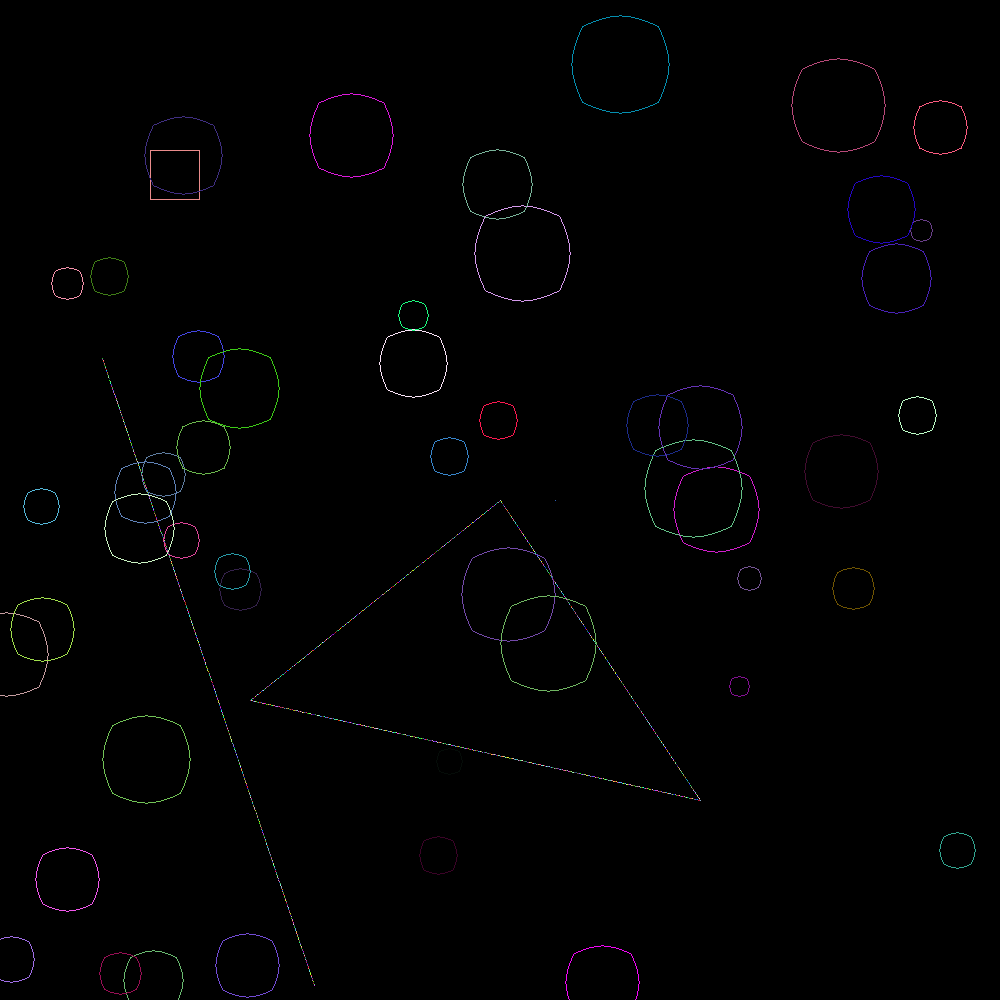
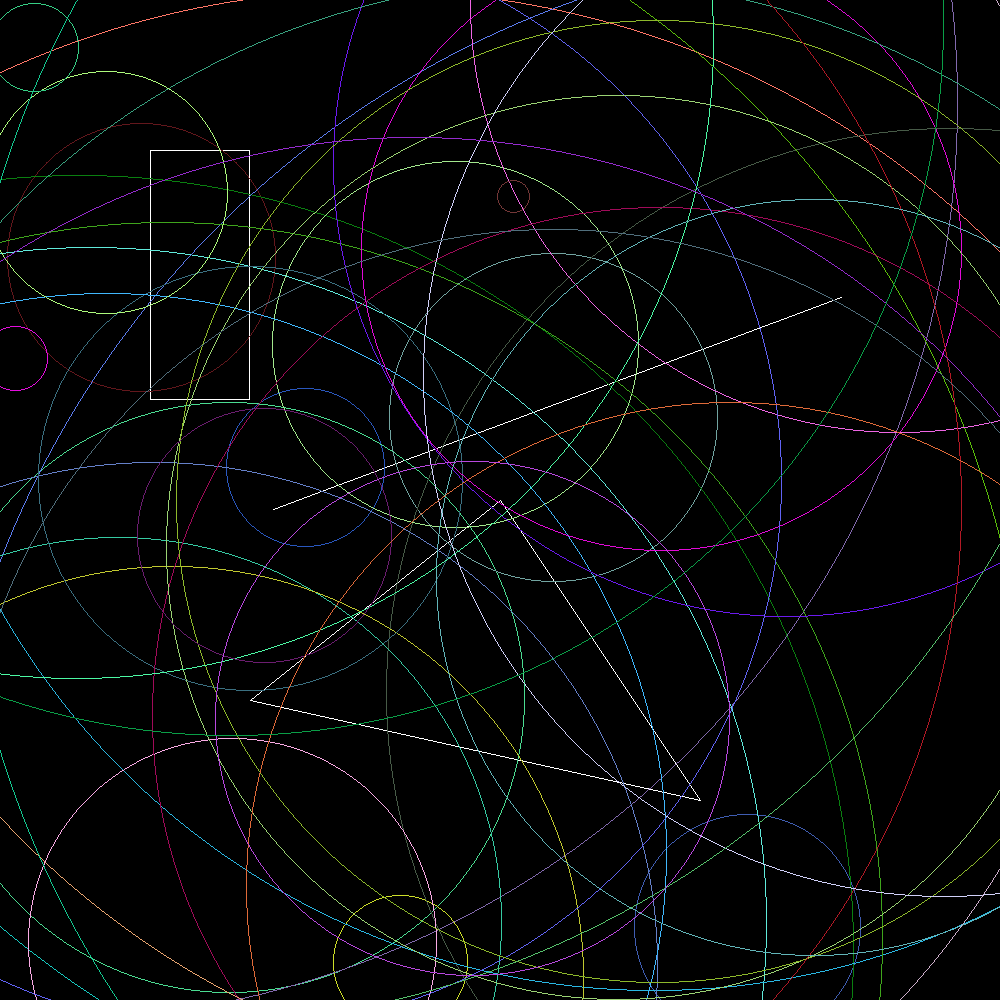
drawing

diff --git a/drawing/src/geometrical_shapes/mod.rs b/drawing/src/geometrical_shapes/mod.rs
@@ -1,8 +1,8 @@
-use rand::{Rng, rng};
+use rand::{thread_rng, Rng};
 use raster::Color;
 
 fn random_color() -> Color {
-    let mut rng = rng();
+     let mut rng = thread_rng();
     Color::rgb(
         rng.gen_range(0..=255),
         rng.gen_range(0..=255),
@@ -35,7 +35,7 @@ impl Point {
     }
 
     pub fn random(width: i32, height: i32) -> Self {
-        let mut rng = rng();
+       let mut rng = thread_rng();
         Point {
             x: rng.gen_range(0..width),
             y: rng.gen_range(0..height),
@@ -50,7 +50,7 @@ impl Drawable for Point {
     }
 
     fn color(&self) -> Color {
-        self.color.clone()
+        Color::rgb(255, 255, 255)
     }
 }
 
@@ -80,12 +80,13 @@ impl Line {
 }
 
 impl Drawable for Line {
+    // Brisenham's line algorithm
     fn draw(&self, image: &mut impl Displayable) {
         let dx = (self.end.x - self.start.x).abs();
         let dy = (self.end.y - self.start.y).abs();
         let sx = if self.start.x < self.end.x { 1 } else { -1 };
         let sy = if self.start.y < self.end.y { 1 } else { -1 };
-        let mut err = dx - dy;
+        let mut err = dx - dy; // Variable Error
         let mut current = self.start.clone();
 
         loop {
@@ -106,7 +107,7 @@ impl Drawable for Line {
     }
 
     fn color(&self) -> Color {
-        random_color()
+       Color::rgb(255, 255, 255)
     }
 }
 
@@ -148,7 +149,7 @@ impl Drawable for Rectangle {
     }
 
     fn color(&self) -> Color {
-      self.color.clone()
+      Color::rgb(255, 255, 255)
     }
 }
 
@@ -180,7 +181,7 @@ impl Drawable for Triangle {
     }
 
     fn color(&self) -> Color {
-        random_color()
+       Color::rgb(255, 255, 255)
     }
 }
 
@@ -204,8 +205,8 @@ impl Circle {
     }
 
     pub fn random(width: i32, height: i32) -> Self {
-        let mut rng = rng();
-        let radius = rng.gen_range(10..50);
+        let mut rng = thread_rng();
+        let radius = rng.gen_range(0..height);
         Circle {
             center: Point::random(width, height),
             radius,
@@ -216,12 +217,16 @@ impl Circle {
 
 impl Drawable for Circle {
     fn draw(&self, image: &mut impl Displayable) {
+        // let (cx, cy, r) = (self.center.x, self.center.y, self.radius);
+        // let mut x = r;
+        // let mut y = 0;
+        // let mut err = 0;
         let (cx, cy, r) = (self.center.x, self.center.y, self.radius);
-        let mut x = r;
-        let mut y = 0;
-        let mut err = 0;
+        let mut x = 0;
+        let mut y = r;
+        let mut d = 1 - r;
 
-        while x >= y {
+        while x <= y {
             image.display(cx + x, cy + y, self.color());
             image.display(cx + y, cy + x, self.color());
             image.display(cx - y, cy + x, self.color());
@@ -231,12 +236,19 @@ impl Drawable for Circle {
             image.display(cx + y, cy - x, self.color());
             image.display(cx + x, cy - y, self.color());
 
-            y += 1;
-            if err <= 0 {
-                err += 2 * y + 1;
+            // y += 1;
+            // if err <= 0 {
+            //     err += 2 * y + 1;
+            // } else {
+            //     x -= 1;
+            //     err -= 2 * x + 1;
+            // }
+            x += 1;
+            if d < 0 {
+                d += 2 * x + 1;
             } else {
-                x -= 1;
-                err -= 2 * x + 1;
+                y -= 1;
+                d += 2 * (x - y) + 1;
             }
         }
     }

diff --git a/drawing/src/main.rs b/drawing/src/main.rs
@@ -11,10 +11,10 @@ fn main() {
 
     gs::Point::random(image.width, image.height).draw(&mut image);
 
-    let rectangle = gs::Rectangle::new(&gs::Point::new(150, 150), &gs::Point::new(50, 50));
+    let rectangle = gs::Rectangle::new(&gs::Point::new(150, 150), &gs::Point::new(100, 250));
     rectangle.draw(&mut image);
 
-    let triangle = gs::Triangle::new (
+    let triangle = gs::Triangle::new(
             &gs::Point::new(500, 500),
             &gs::Point::new(250, 700),
             &gs::Point::new(700, 800),
